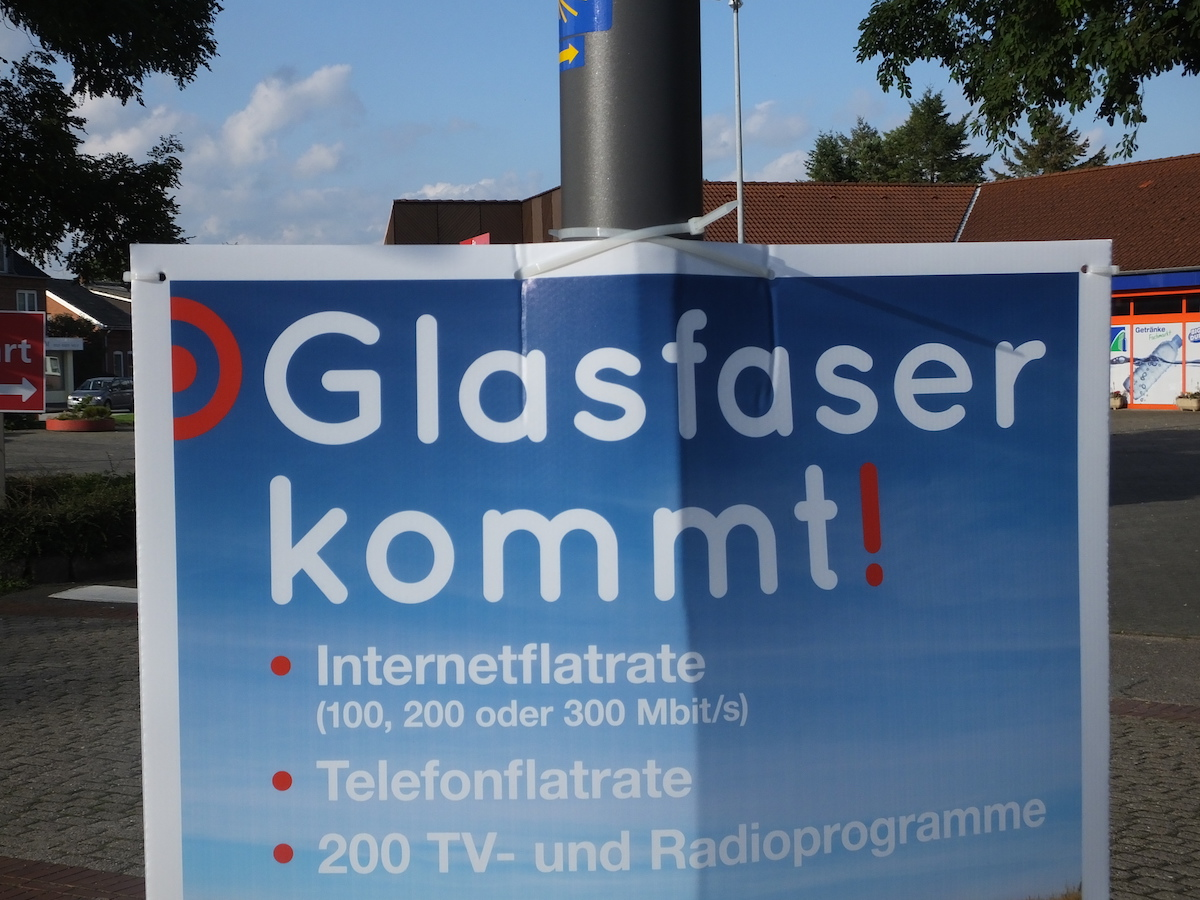
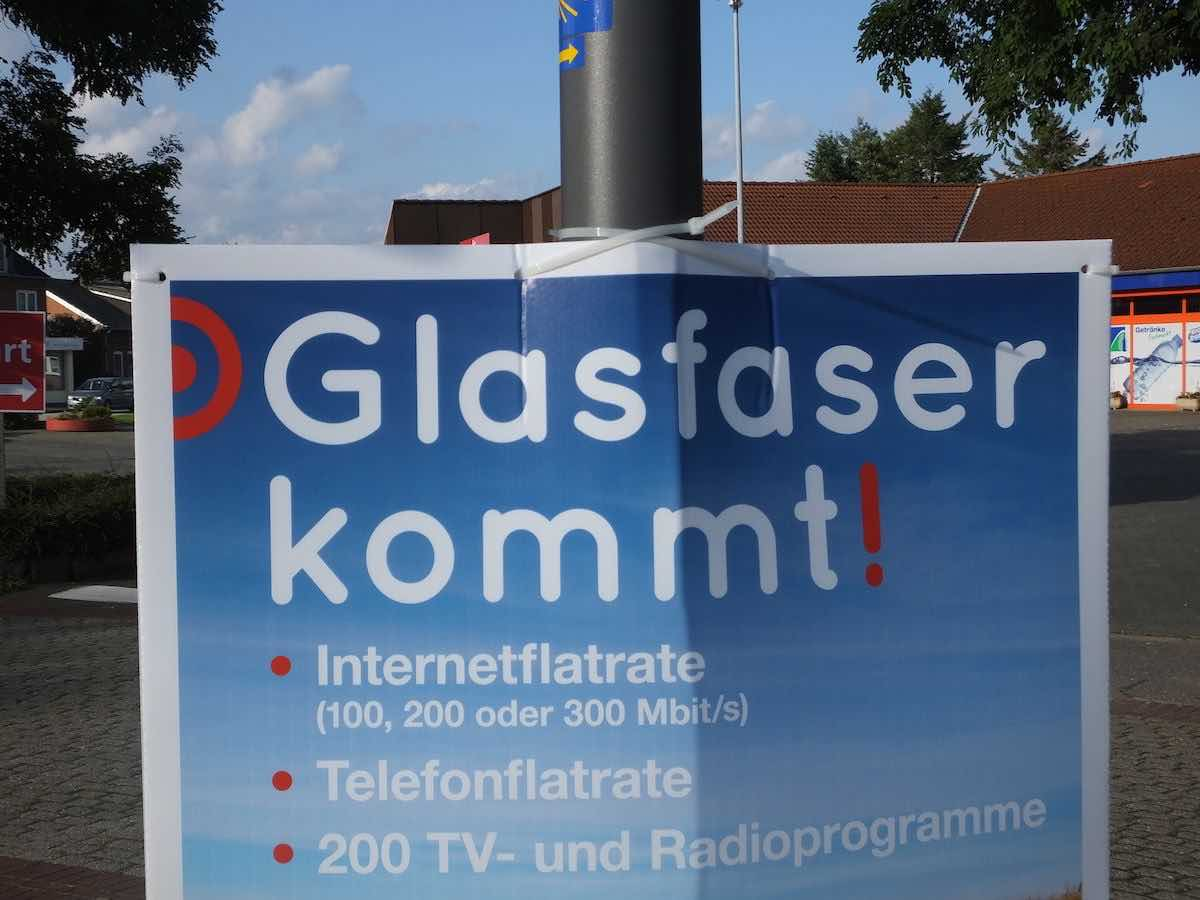
Bilder von PNG auf JPG geändert (kleiner)

diff --git a/index.html b/index.html
@@ -233,7 +233,7 @@
                     <br/>
                     <figure class="image">
                         <img alt="Kartenausschnitt der Eiderkom-Ausbaukarte für Seemühlen Nord"
-                             src="img/ftth_seemuehlen.png" class="figure-img"/>
+                             src="img/ftth_seemuehlen.jpg" class="figure-img"/>
                         <figcaption class="figure-caption">Kartenausschnitt der Eiderkom-Ausbaukarte für Seemühlen
                             Nord
                         </figcaption>
@@ -245,7 +245,7 @@
                     Breitbandatlas bekannt sein.
                     <br/>
                     <figure class="image">
-                        <img alt="Übersicht der Bauabschnitte des Zweckverbands" src="img/zbmsh_bauabschnitte.png"
+                        <img alt="Übersicht der Bauabschnitte des Zweckverbands" src="img/zbmsh_bauabschnitte.jpg"
                              class="figure-img">
                         <figcaption class="figure-caption">Übersicht der Bauabschnitte des Zweckverbands</figcaption>
                     </figure>
@@ -261,7 +261,7 @@
                     ihr zukünftiges Zuhause ans Internet angebunden ist. Bei Immobilienscout24 findet man schon
                     entsprechendes in der Suchmaske:<br/>
                     <figure class="image">
-                        <img alt="Suchmaske von Immobilienscout24" src="img/suchmaske_immoscout.png" class="figure-img">
+                        <img alt="Suchmaske von Immobilienscout24" src="img/suchmaske_immoscout.jpg" class="figure-img">
                         <figcaption class="figure-caption">Suchmaske von Immobilienscout24</figcaption>
                     </figure>
                     <br/>

diff --git a/css/main.css b/css/main.css
@@ -24,7 +24,7 @@ img {
 }
 
 #main-header {
-    background-image: url('../img/dorfbrunnen_glasfaser.png');
+    background-image: url('../img/dorfbrunnen_glasfaser.jpg');
 }
 
 @media only screen and (max-width: 1170px) {
@@ -32,6 +32,6 @@ img {
         width: inherit;
     }
     #main-header {
-        background-image: url('../img/dorfbrunnen_glasfaser_mobile.png');
+        background-image: url('../img/dorfbrunnen_glasfaser_mobile.jpg');
     }
 }
